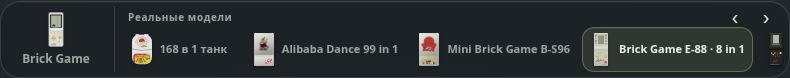
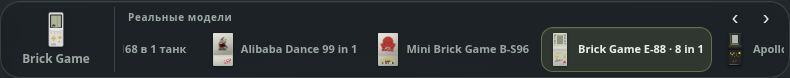
Keep selected carousel cards visible after mobile resize

Changed region(s): [[0.1519, 0.3333, 1.0, 0.9231], [0.9722, 0.7692, 1.0, 0.7949]]

diff --git a/tests/smoke/toys.spec.ts b/tests/smoke/toys.spec.ts
@@ -42,9 +42,10 @@ test.describe('шапка и переключатель', () => {
     await expect(logo).toBeVisible();
     expect(await logo.evaluate((img: HTMLImageElement) => img.complete && img.naturalWidth > 0)).toBe(true);
     const items = page.locator('#real-models .toysw__item');
-    await expect(items).toHaveCount(6);
-    await expect(items.locator('.toysw__name')).toHaveText(['Crocodile Mario', 'Часы+99', 'Морской бой', '168 в 1 танк', 'Alibaba Dance 99 in 1', 'Mini Brick Game B-S96']);
-    await expect(items.locator('svg.toysw__icon')).toHaveCount(6); // миниатюры закрытых игрушек
+    await expect(items).toHaveCount(8);
+    await expect(items.locator('.toysw__name')).toHaveText(['Crocodile Mario', 'Часы+99', 'Морской бой', '168 в 1 танк', 'Alibaba Dance 99 in 1', 'Mini Brick Game B-S96', 'Brick Game E-88 · 8 in 1', 'Apollo B0202 · 126 in 1']);
+    await expect(items.locator('svg.toysw__icon')).toHaveCount(8);
+    await expect(items.locator('svg.toysw__icon image[href*="devices/"]')).toHaveCount(2); // моноблоки используют оригинальные векторы
     await expect(page.locator('.toysw__item[aria-current="page"]')).toHaveAttribute('data-toy', 'mario');
     // Индикаторы — отдельные цветные значки (клавиатура, пауза; геймпад скрыт, пока не подключён), логотип правее них.
     const dots = page.locator('#devices .dev:visible');

diff --git a/src/styles.css b/src/styles.css
@@ -4475,7 +4475,7 @@ body[data-chrome='toy'] .arena > .brand { height:76px; width:min(820px,calc(100v
 .toysw__arrow:disabled { opacity:.25; cursor:default; }
 .toysw__carousel { display:flex; overflow-x:auto; scrollbar-width:none; scroll-snap-type:x proximity; gap:4px; }
 .toysw__carousel::-webkit-scrollbar { display:none; }
-.toysw__carousel .toysw__item { flex:0 0 auto; min-width:118px; min-height:42px; height:auto; border-radius:12px; padding:5px 7px; scroll-snap-align:start; }
+.toysw__carousel .toysw__item { flex:0 0 auto; min-width:118px; min-height:42px; height:auto; border-radius:12px; padding:5px 7px; scroll-snap-align:center; }
 .toysw__carousel .toysw__name { display:block; white-space:normal; max-width:none; font-size:11px; line-height:1.25; }
 .toysw .toysw__carousel .toysw__item .toysw__name { white-space:nowrap; overflow-wrap:normal; }
 .toysw__carousel .toysw__icon { flex:0 0 22px; width:22px; height:33px; }
@@ -4499,7 +4499,8 @@ body[data-chrome='toy'] .arena > .brand { height:76px; width:min(820px,calc(100v
   .topleft .dev { width:25px; }
   .toysw__universal { flex-basis:80px; }
   .toysw__universal .toysw__name { display:block; font-size:10px; }
-  .toysw__carousel .toysw__item { min-width:104px; }
+  .toysw__carousel .toysw__item { min-width:104px; max-width:100%; box-sizing:border-box; }
+  .toysw .toysw__carousel .toysw__item .toysw__name { white-space:normal; min-width:0; }
 }
 
 /* Universal grey/black monoblock. Its seam is moulded plastic, never a folding hinge. */

diff --git a/tests/smoke/native-devices.spec.ts b/tests/smoke/native-devices.spec.ts
@@ -49,6 +49,15 @@ for(const toy of ['e88','apollo-b0202'] as const){
     const bounds=await page.locator('.native__lcd').boundingBox(),carousel=await page.locator('.toysw').boundingBox();
     expect(bounds!.y).toBeGreaterThanOrEqual(carousel!.y+carousel!.height-1);
     expect(await page.evaluate(()=>document.documentElement.scrollWidth)).toBeLessThanOrEqual(width);
+    // Resizing must reveal the whole selected card, including a long native model name.
+    if(width===1440){
+      await page.setViewportSize({width:320,height:1000});
+      await expect.poll(async()=>{
+        const card=await page.locator(`#real-models [data-toy="${toy}"]`).boundingBox();
+        const shelf=await page.locator('#real-models').boundingBox();
+        return !!card&&!!shelf&&card.x>=shelf.x-1&&card.x+card.width<=shelf.x+shelf.width+1;
+      }).toBe(true);
+    }
   });
 }
 test('native admin preserves repeated engine IDs and start entry through JSON export',async({page})=>{

diff --git a/src/app/toySwitch.ts b/src/app/toySwitch.ts
@@ -49,7 +49,11 @@ export function mountToySwitch(nav: HTMLElement, current: ToyId, onSelect: (id: 
   previous.addEventListener('click', () => scroll(-1));
   next.addEventListener('click', () => scroll(1));
   shelf.addEventListener('scroll', updateArrows, { passive: true });
-  new ResizeObserver(updateArrows).observe(shelf);
+  new ResizeObserver(() => {
+    const selected = shelf.querySelector<HTMLAnchorElement>('[aria-current="page"]');
+    if (selected) reveal(selected);
+    updateArrows();
+  }).observe(shelf);
   shelf.addEventListener('keydown', (event) => {
     if (!['ArrowLeft', 'ArrowRight', 'Home', 'End'].includes(event.key)) return;
     const links = items.filter((item) => item.id !== 'brickgame').map((item) => item.link);

diff --git a/tests/smoke/switch.spec.ts b/tests/smoke/switch.spec.ts
@@ -320,6 +320,8 @@ test.describe('переключение игрушек на месте', () => {
       '?toy=tank168',
       '?toy=alibaba',
       '?toy=minibrick',
+      '?toy=e88',
+      '?toy=apollo-b0202',
     ]);
     // Щелчок посылается событием: после обработчика переключателя фиксируем, отменено ли действие по умолчанию (и отменяем сами, чтобы страница не ушла).
     const prevented = await page.evaluate(() => {
